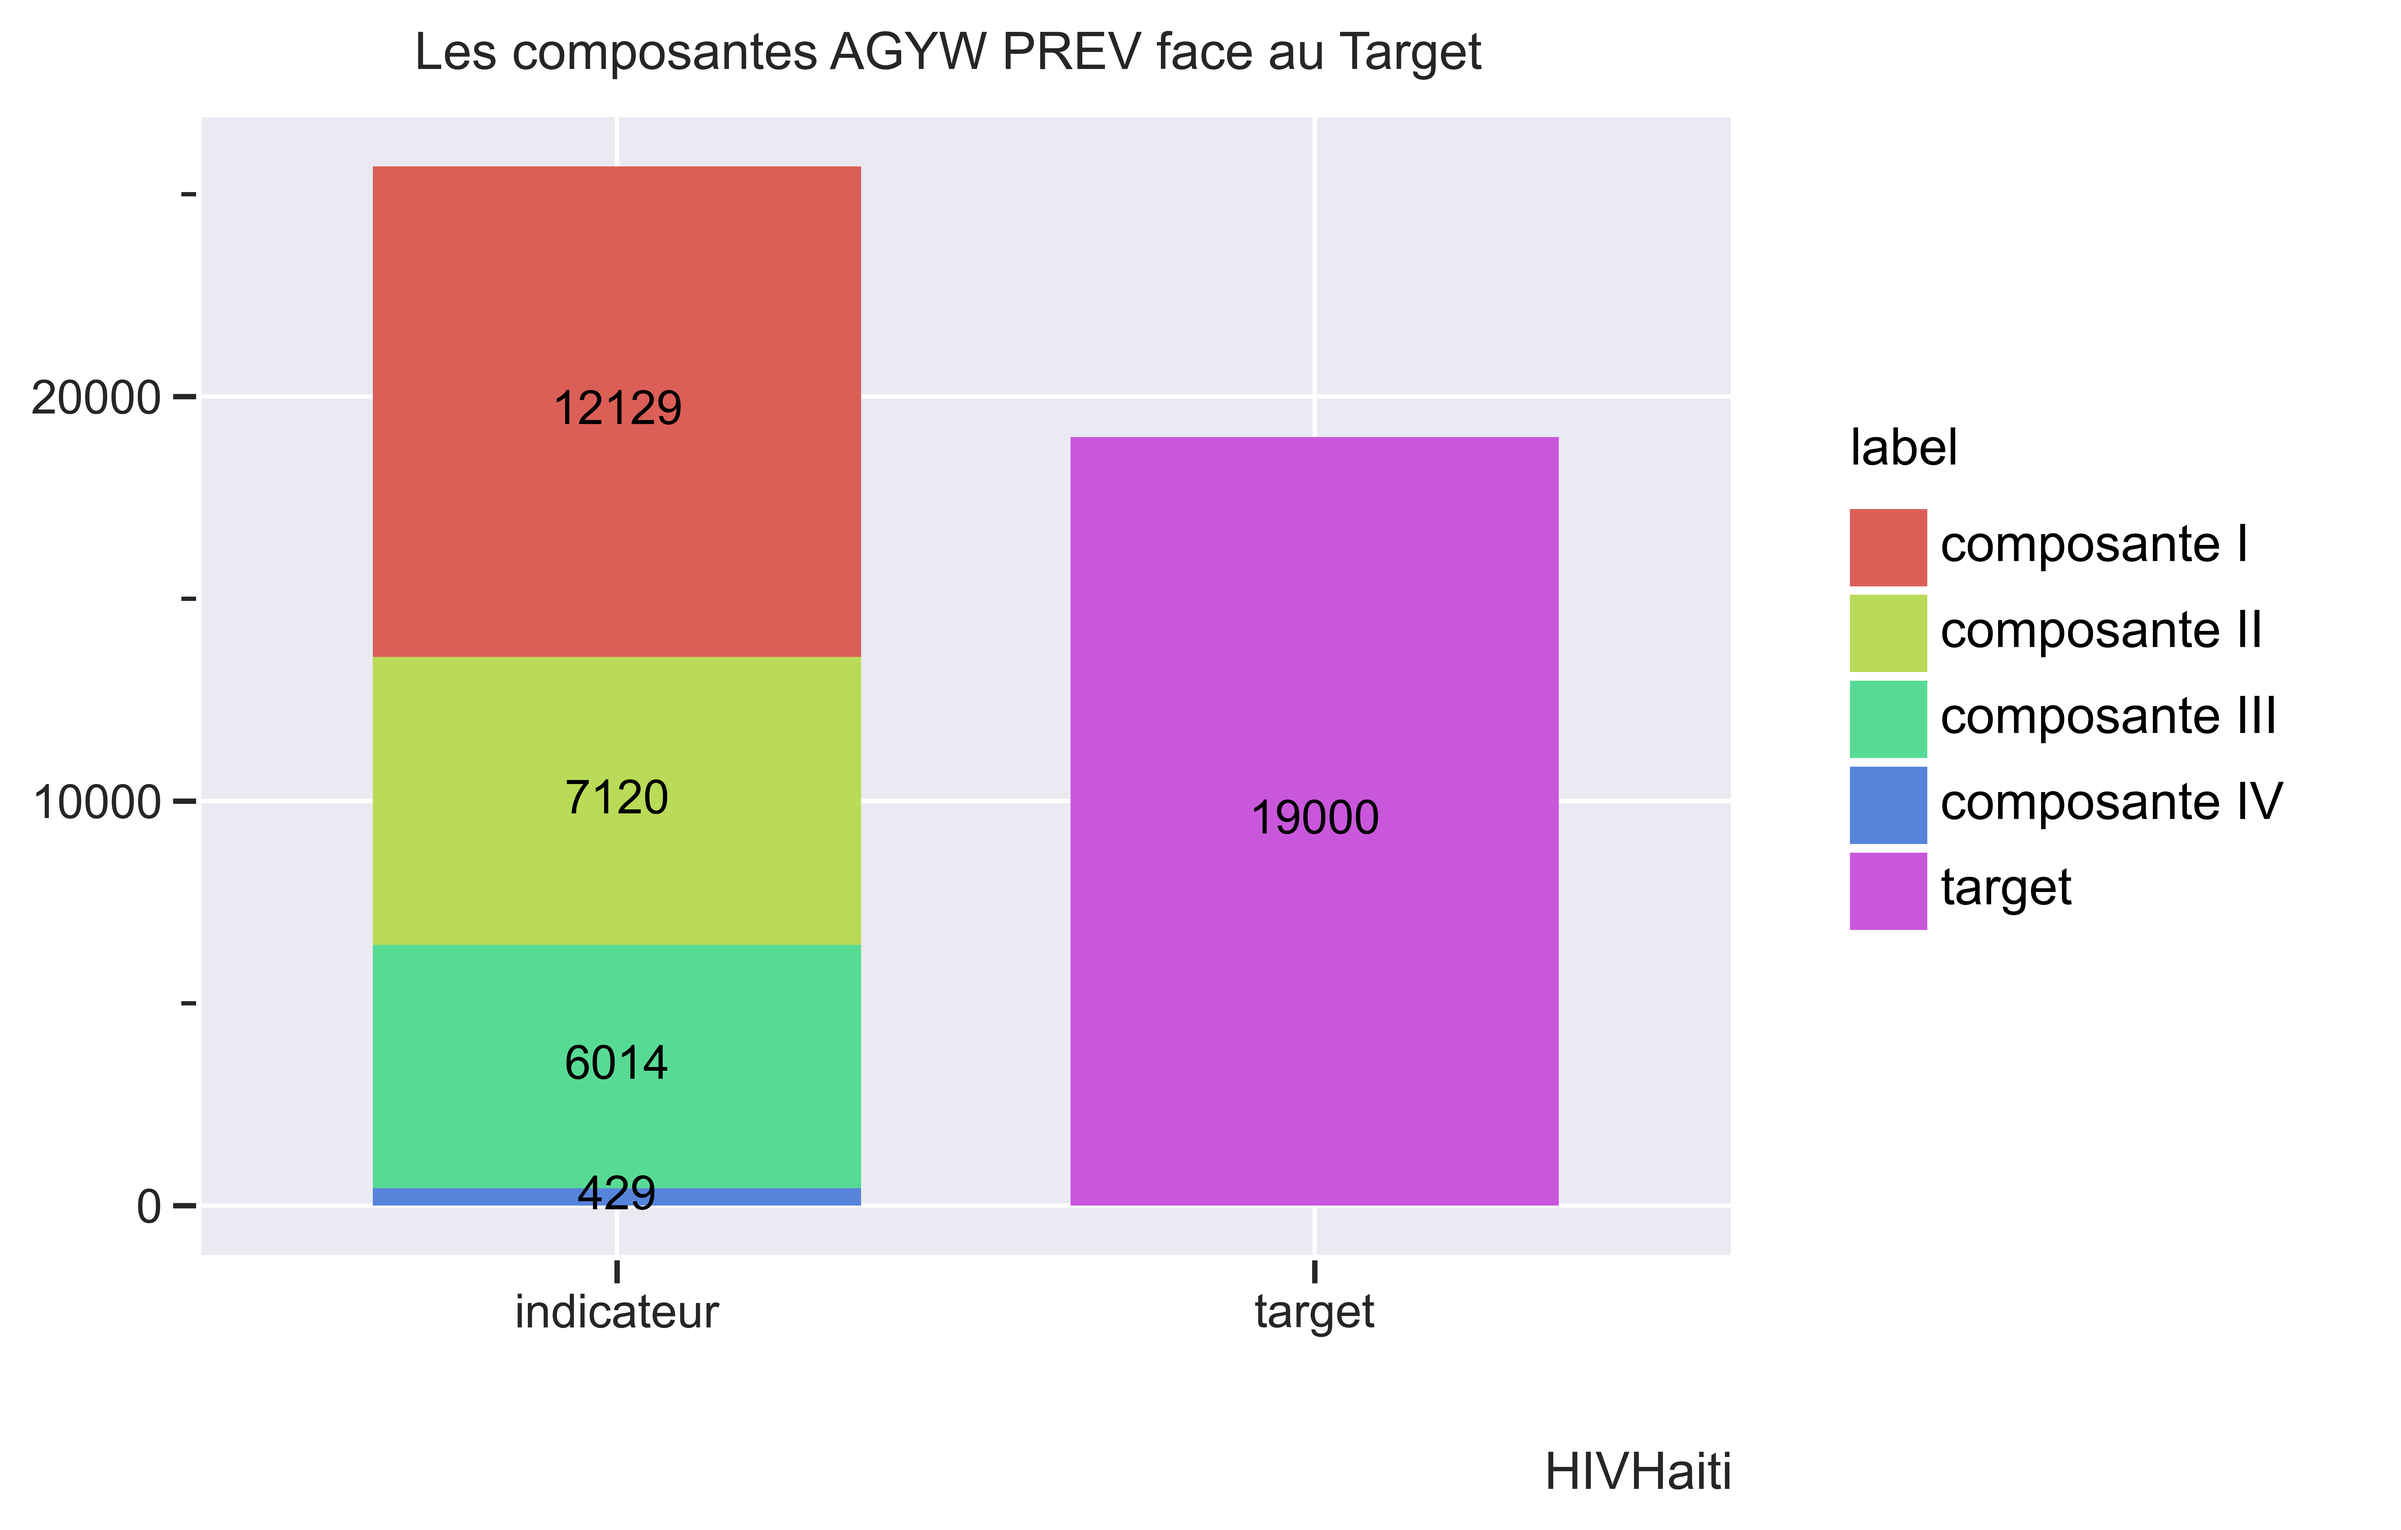
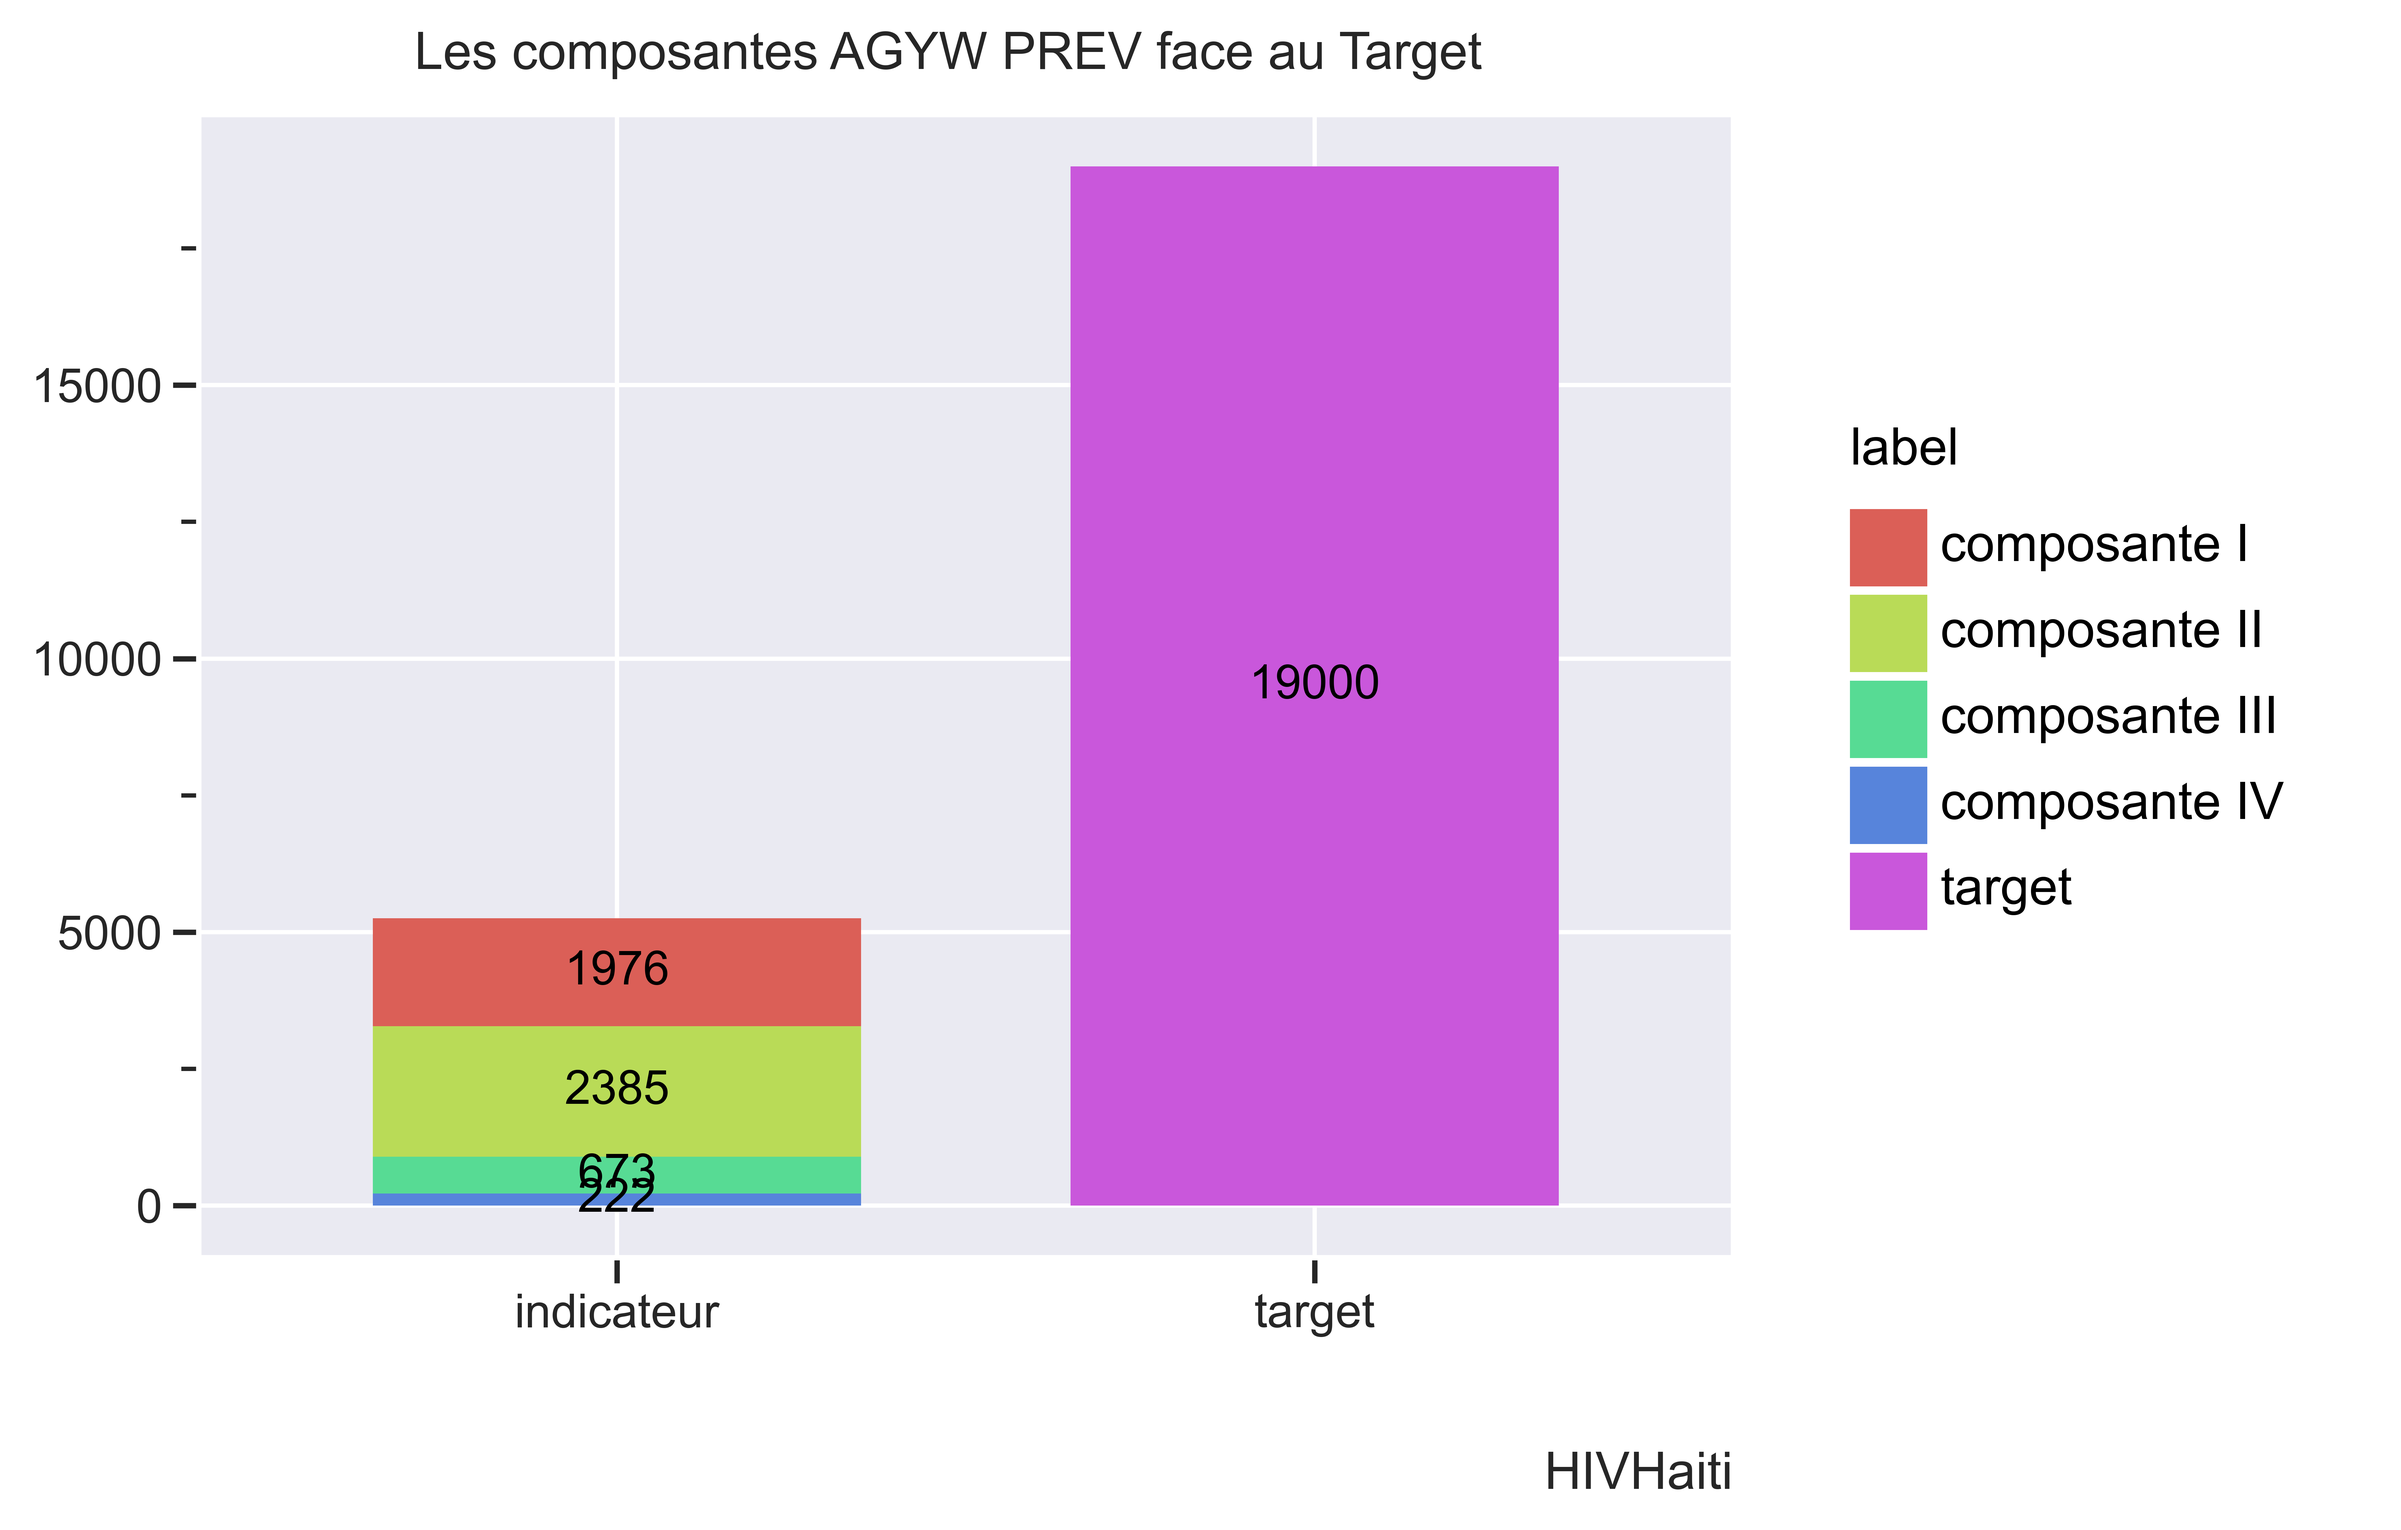
donneNous

diff --git a/v23_version_inactifs/core/agyw.py b/v23_version_inactifs/core/agyw.py
@@ -7,7 +7,7 @@ class AgywPrev:
     """A class with properties and methods given the results of the indicator AGYW_PREV DATIM"""
     __who_am_I = "DATIM"
     __datim1_title = "Number of active DREAMS participants that have fully completed the entire DREAMS primary package of services but have not received any services beyond the primary package as of the past 6 months at Q2 or the past 12 months at Q4."
-    __datim2_title = "Number of active DREAMS participants that have fully completed the entire DREAMS primary package of services AND at least one additional secondary service as of the past 6 months at Q2 or the past 12 months at Q4."
+    __datim2_title = "Number of active DREAMS participants that have fully completed the entire DREAMS primary package of services AND at least one additional secondary service as of the past 6 months at Q2 or the past 12 months at Q4."
     __datim3_title = "Number of active DREAMS participants that have fully completed at least one DREAMS service/intervention but NOT the full primary package of services/interventions as of the past 6 months at Q2 or the past 12 months at Q4."
     __datim4_title = "Number of active DREAMS participants that have started a DREAMS service but have not yet completed it in the past 6 months at Q2 or 12 months at Q4."
 

diff --git a/v23_version_inactifs/core/active.py b/v23_version_inactifs/core/active.py
@@ -21,7 +21,7 @@ DBNAME = config('DBCaris')
 
 
 class Set_date(Enum):
-    master_start = "2019-10-01"
+    master_start = "2021-10-01"
     #master_end = datetime.today().strftime('%Y-%m-%d')
     #master_start = "2017-10-01"
     master_end = "2022-09-30"
@@ -29,7 +29,7 @@ class Set_date(Enum):
     period_start = "2021-10-01"
     #period_end = datetime.today().strftime('%Y-%m-%d')
     #period_start = "2021-10-01"
-    period_end = "2022-09-30"
+    period_end = "2022-03-31"
     
     #master_start = "2017-10-01"
     #master_end = "2020-11-31"
